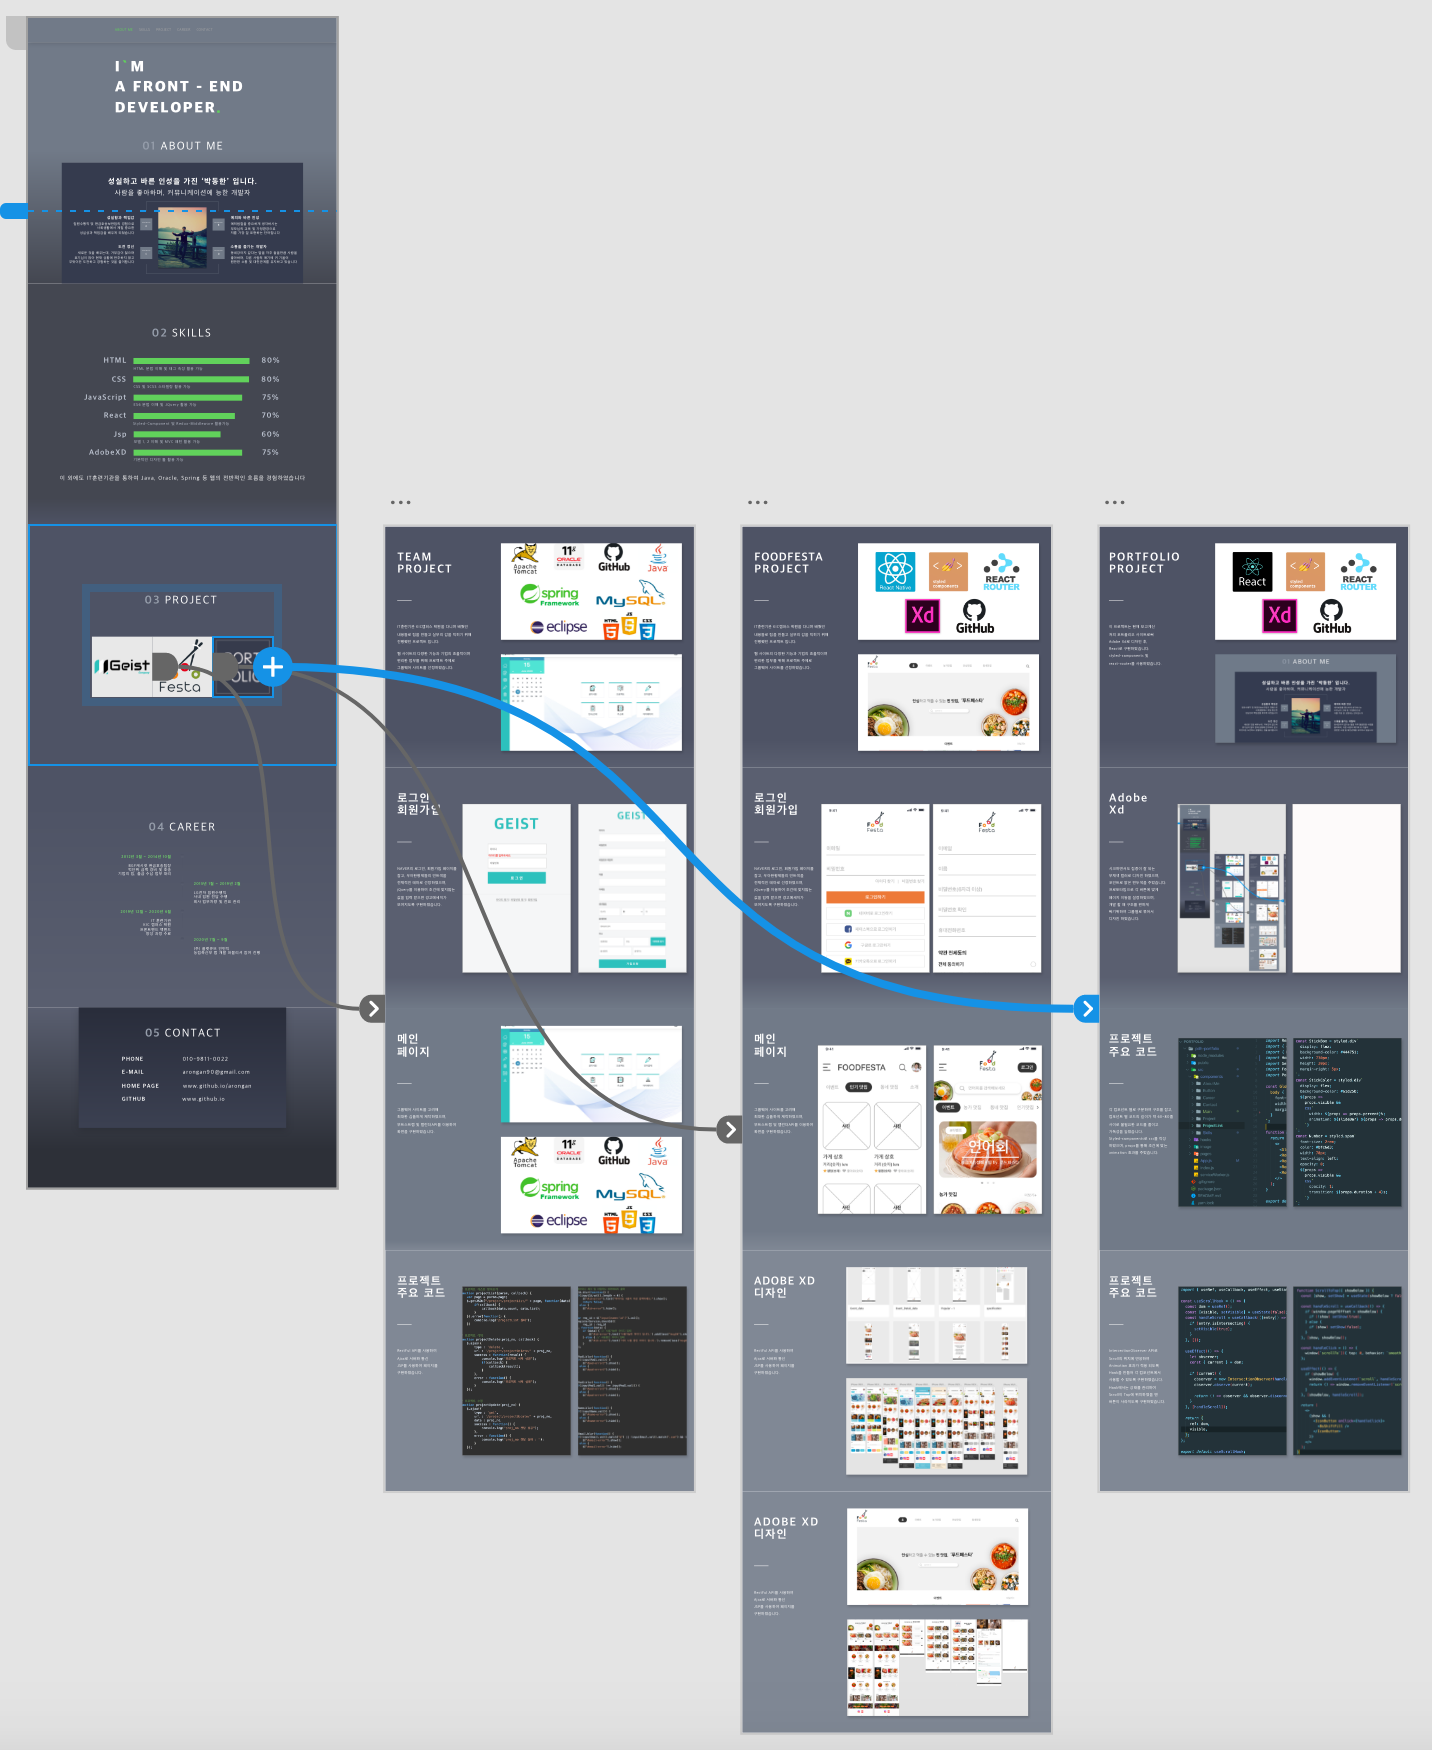
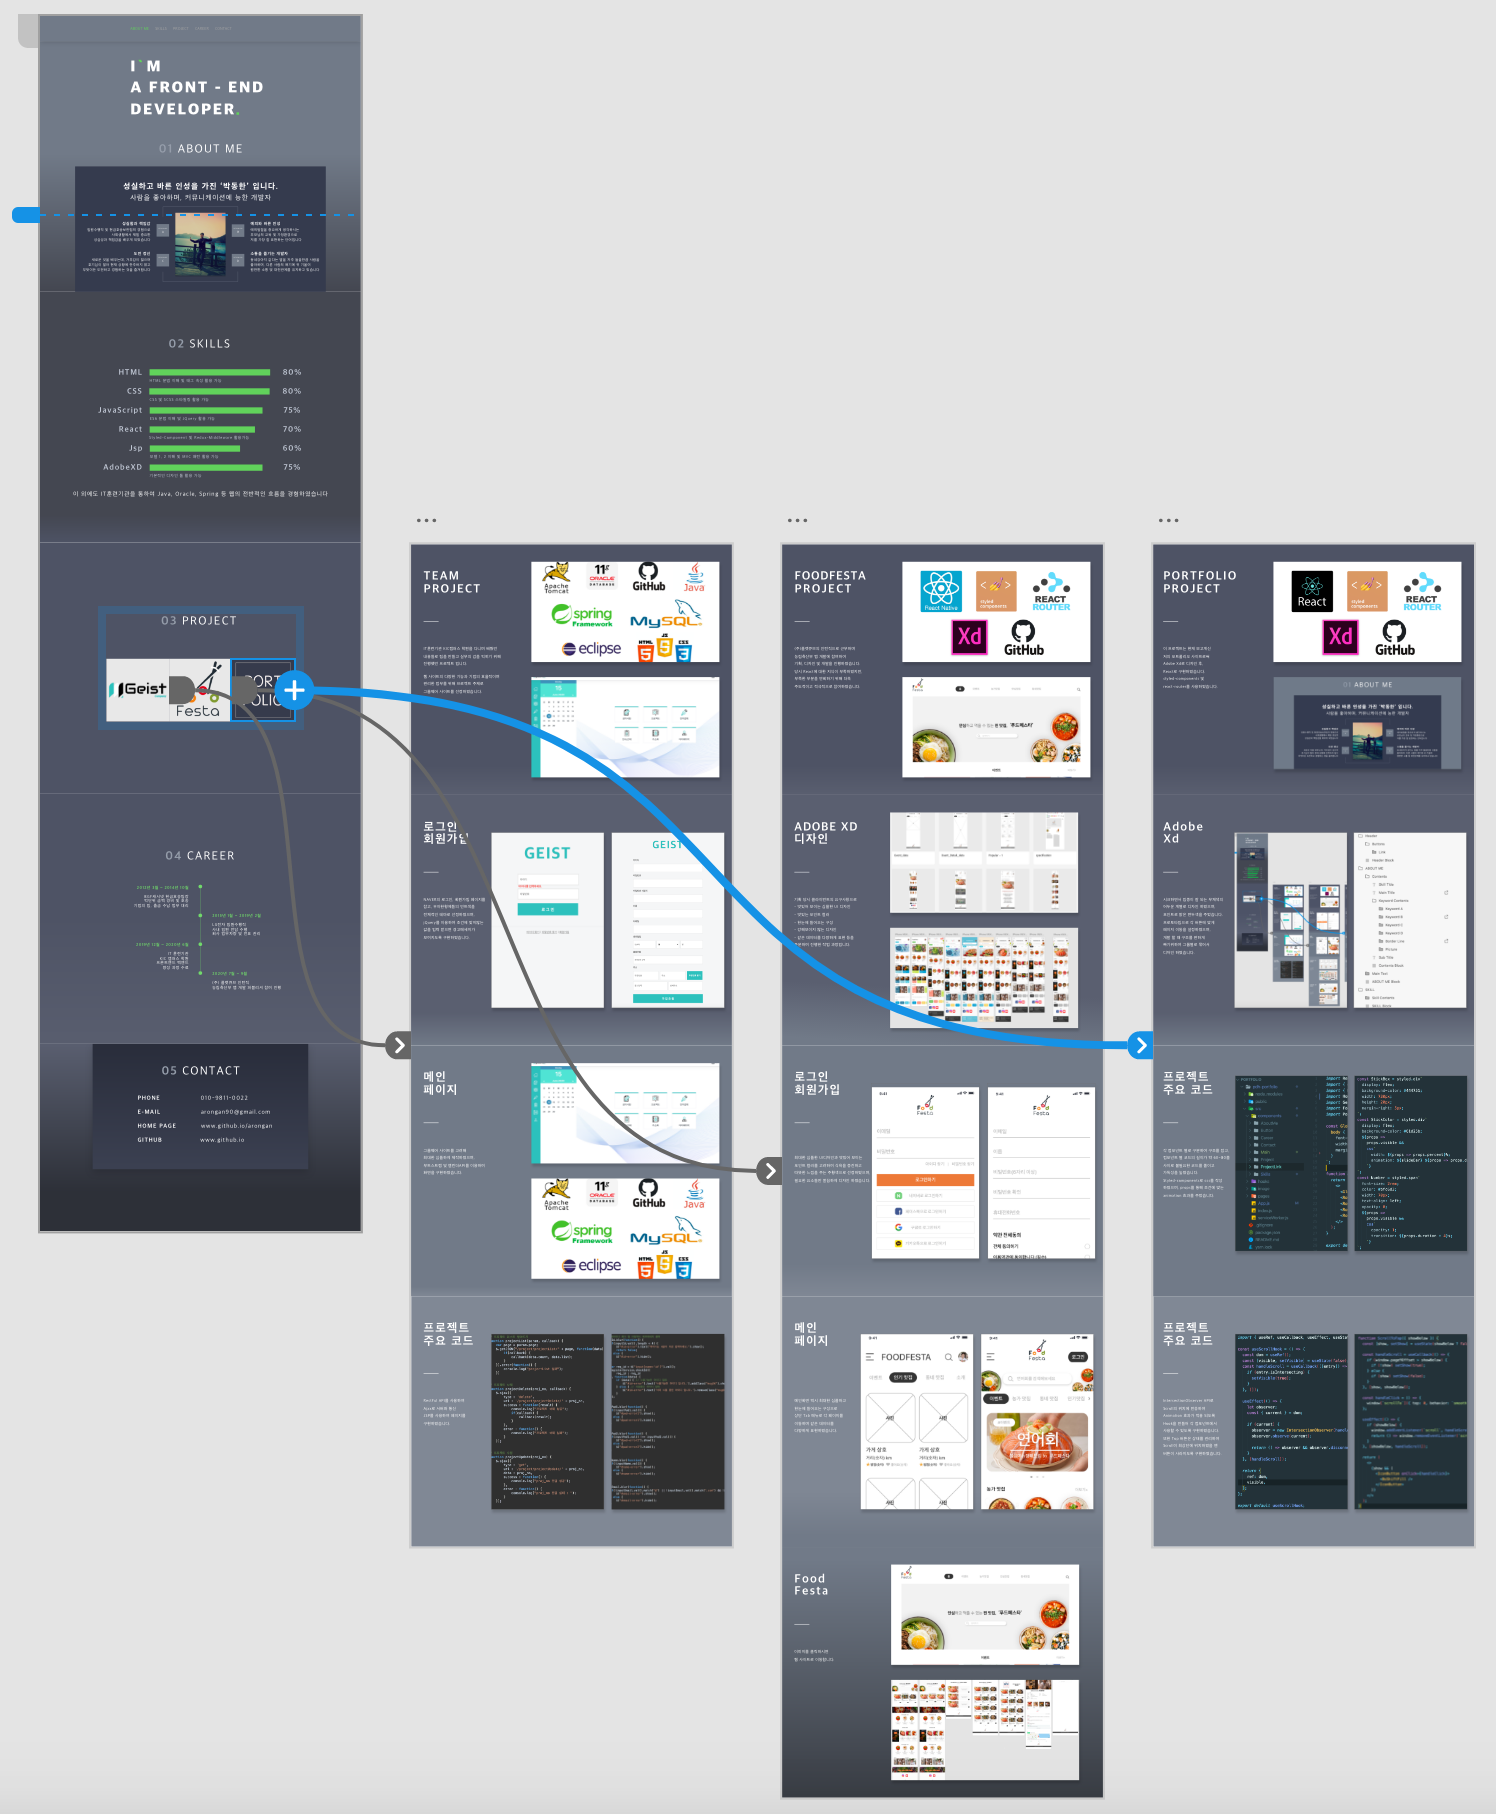
portfolio image 및 about me title 수정

Changed region(s): [[0.0, 0.0, 1.0, 1.0], [0.0922, 0.4629, 0.1536, 0.5554], [0.0922, 0.5863, 0.1536, 0.6171]]

diff --git a/pdh-portfolio/src/components/AboutMe/AboutMeContents.js b/pdh-portfolio/src/components/AboutMe/AboutMeContents.js
@@ -3,12 +3,6 @@ import styled from 'styled-components';
 import Keyword from './Keyword';
 import Donghan from '../../image/donghan.jpeg';
 
-const Image = styled.img`
-  width: 200px;
-  height: 250px;
-  margin: 25px 25px;
-`;
-
 const AboutMeContentsText = styled.div`
   color: lightgray;
   text-align: center;
@@ -16,12 +10,12 @@ const AboutMeContentsText = styled.div`
     font-size: 32px;
     font-weight: 600;
     margin-top: 60px;
-    margin-bottom: 8px;
-    letter-spacing: 5px;
+    margin-bottom: 20px;
+    letter-spacing: 3px;
     color: white;
   }
   h5 {
-    font-size: 28px;
+    font-size: 24px;
     font-weight: 400;
     margin: 0;
   }
@@ -31,26 +25,32 @@ const OutLine = styled.div`
   width: 300px;
   height: 300px;
   border: 1px solid #717a88;
-  margin: 20px 350px 40px;
+  margin: 20px 350px 20px;
   position: relative;
+`;
+
+const Image = styled.img`
+  width: 200px;
+  height: 250px;
+  margin: 25px 25px;
 `;
 
 function AboutMeContents() {
   return (
     <>
       <AboutMeContentsText>
-        <h2>성실하고 바른 인성을 가진 '박동한' 입니다.</h2>
-        <h5>사람을 좋아하고, 커뮤니케이션에 능한 개발자</h5>
+        <h2>사람을 좋아하며, 커뮤니케이션을 즐기는 개발자</h2>
+        <h5>'박동한' 에 대한 4가지 Key word</h5>
         <OutLine>
           <Image src={Donghan} />
           <Keyword icon="Keyword A" position="A" align="right">
-            <b>성실함과 책임감</b>
+            <b>성실과 책임감</b>
             <br />
-            임원 수행직과 현금 보안호송직의
+            임원 수행직 및 현금 보안호송직의 경험을
             <br />
-            경험으로 사회생활에서 제일 중요한
+            바탕으로 사회생활에서 제일 중요한
             <br />
-            성실성과 책임감을 배우게 되었습니다
+            성실함과 책임감을 익히게 되었습니다
           </Keyword>
           <Keyword icon="Keyword B" position="B" align="left">
             <b>예의와 바른 인성</b>
@@ -64,20 +64,20 @@ function AboutMeContents() {
           <Keyword icon="Keyword C" position="C" align="right">
             <b>도전 정신</b>
             <br />
-            새로운 것을 배우는데, 거부감이 없으며
+            새로운 것을 익히는데 거부감이 없으며
             <br />
-            호기심이 많아 현재 상황에 안주하지 않고
+            호기심이 많아 현재 상황에 머무르지 않고
             <br />
-            무엇이든 도전하고 경험하는 것을 즐겨합니다
+            무엇이든 경험 해보는 것을 즐겨합니다
           </Keyword>
           <Keyword icon="Keyword D" position="D" align="left">
-            <b>소통을 즐기는 개발자</b>
+            <b>넘치는 인간미</b>
             <br />
             동네강아지 같다는 말을 자주 들을만큼 사람을
             <br />
             좋아하며, 다른 사람의 얘기에 귀 기울여
             <br />
-            원만한 소통 및 대인관계를 유지하고 있습니다
+            원만한 소통과 대인관계를 유지합니다
           </Keyword>
         </OutLine>
       </AboutMeContentsText>

diff --git a/pdh-portfolio/src/components/ProjectLink/FoodFestaProject/FoodFestaPage5.js b/pdh-portfolio/src/components/ProjectLink/FoodFestaProject/FoodFestaPage5.js
@@ -1,8 +1,7 @@
 import React from 'react';
 import styled from 'styled-components';
 import Explanation from './Explanation';
-import restful from '../../../image/restful.png';
-import jquery from '../../../image/jquery.png';
+import food_web from '../../../image/food_web.png';
 
 const FoodFestaBlock = styled.div`
   width: 100%;
@@ -18,27 +17,34 @@ const ImageBlock = styled.div`
   justify-content: center;
 `;
 const Image = styled.img`
-  width: 450px;
-  height: 700px;
-  margin-right: 50px;
+  width: 850px;
+  height: 550px;
   box-shadow: 10px 10px 10px 0 rgba(0, 0, 0, 0.3);
+  transition: 0.7s;
+  &:hover {
+    transform: scale(1.1);
+  }
 `;
 
 function FoodFestaPage5() {
   return (
     <FoodFestaBlock>
       <Explanation
-        title="주요 코드"
+        title="푸드페스타/n홈페이지"
         explain="
-          RestFul API를 사용하여
-          Ajax로 서버와 통신
-          JSP를 사용하여 페이지를
-          구현하였습니다.
+          이미지를 클릭하시면/n
+          food-festa 웹 사이트로/n
+          이동합니다.
         "
       />
       <ImageBlock>
-        <Image src={restful}></Image>
-        <Image src={jquery}></Image>
+        <a
+          href="http://www.food-festa.com"
+          target="_blank"
+          rel="noopener noreferrer"
+        >
+          <Image src={food_web}></Image>
+        </a>
       </ImageBlock>
     </FoodFestaBlock>
   );

diff --git a/pdh-portfolio/src/components/ProjectLink/FoodFestaProject/FoodFestaPage1.js b/pdh-portfolio/src/components/ProjectLink/FoodFestaProject/FoodFestaPage1.js
@@ -7,7 +7,7 @@ import food_web from '../../../image/food_web.png';
 const FoodFestaBlock = styled.div`
   width: 100%;
   height: 1000px;
-  background: linear-gradient(to bottom, #717a88, 95%, #5a5f70);
+  background: linear-gradient(to bottom, #4e5365, 95%, #5a5f70);
   display: flex;
   align-items: center;
   justify-content: space-around;
@@ -20,7 +20,7 @@ const ImageBlock = styled.div`
   flex-direction: column;
 `;
 const Image = styled.img`
-  width: 750px;
+  width: 700px;
   height: 400px;
   box-shadow: 10px 10px 10px 0 rgba(0, 0, 0, 0.3);
   transition: 0.7s;
@@ -41,7 +41,7 @@ function FoodFestaPage1() {
           (주)플랫큐브의 인턴직으로 근무하며/n
           농림축산부 앱 개발에 참여하여/n
           기획, 디자인 및 개발을 진행하였습니다./n
-          당시 React에 대한 지식이 부족하였지만,/n
+          당시 React에 이해와 지식이 조금 부족하였지만,/n
           부족한 부분을 만회하기 위해 더욱/n
           주도적이며 적극적으로 참여하였습니다.        
         "

diff --git a/pdh-portfolio/src/components/ProjectLink/PortFolioProject/PortFolioPage1.js b/pdh-portfolio/src/components/ProjectLink/PortFolioProject/PortFolioPage1.js
@@ -2,11 +2,12 @@ import React from 'react';
 import styled from 'styled-components';
 import Explanation from './Explanation';
 import portfolio_main from '../../../image/portfolio_main.png';
+import portfolio_skill from '../../../image/portfolio_skill.png';
 
 const PortFolioBlock = styled.div`
   width: 100%;
   height: 1000px;
-  background: linear-gradient(to bottom, #717a88, 95%, #5a5f70);
+  background: linear-gradient(to bottom, #4e5365, 95%, #5a5f70);
   display: flex;
   align-items: center;
   justify-content: space-around;
@@ -19,7 +20,7 @@ const ImageBlock = styled.div`
   flex-direction: column;
 `;
 const Image = styled.img`
-  width: 750px;
+  width: 700px;
   height: 400px;
   box-shadow: 10px 10px 10px 0 rgba(0, 0, 0, 0.3);
   transition: 0.7s;
@@ -45,7 +46,7 @@ function PortFolioPage1() {
           "
       />
       <ImageBlock>
-        <Image src={portfolio_main}></Image>
+        <Image src={portfolio_skill}></Image>
         <Image src={portfolio_main}></Image>
       </ImageBlock>
     </PortFolioBlock>

diff --git a/pdh-portfolio/src/components/ProjectLink/FoodFestaProject/Explanation.js b/pdh-portfolio/src/components/ProjectLink/FoodFestaProject/Explanation.js
@@ -27,23 +27,23 @@ function Explanation({ title, explain }) {
     <>
       <ExplanBlock>
         <h1>
-          {title.split('/n').map(line => {
+          {title.split('/n').map((line, index) => {
             return (
-              <>
+              <div key={index}>
                 {line}
                 <br />
-              </>
+              </div>
             );
           })}
         </h1>
         <Line />
         <Text>
-          {explain.split('/n').map(line => {
+          {explain.split('/n').map((line, index) => {
             return (
-              <>
+              <div key={index}>
                 {line}
                 <br />
-              </>
+              </div>
             );
           })}
         </Text>

diff --git a/pdh-portfolio/src/components/ProjectLink/PortFolioProject/PortFolio.js b/pdh-portfolio/src/components/ProjectLink/PortFolioProject/PortFolio.js
@@ -4,7 +4,6 @@ import PortFolioPage1 from './PortFolioPage1';
 import PortFolioPage2 from './PortFolioPage2';
 import PortFolioPage3 from './PortFolioPage3';
 import PortFolioPage4 from './PortFolioPage4';
-import PortFolioPage5 from './PortFolioPage5';
 import HomeButton from '../../Button/HomeButton';
 import ScrollToTop from '../../Button/ScrollToTop';
 
@@ -28,7 +27,6 @@ function PortFolio() {
       <PortFolioPage2 />
       <PortFolioPage3 />
       <PortFolioPage4 />
-      <PortFolioPage5 />
       <ButtonGroup>
         <HomeButton />
         <ScrollToTop />

diff --git a/pdh-portfolio/src/components/ProjectLink/GeistProject/GeistPage1.js b/pdh-portfolio/src/components/ProjectLink/GeistProject/GeistPage1.js
@@ -7,7 +7,7 @@ import product from '../../../image/product.png';
 const WorkBlock = styled.div`
   width: 100%;
   height: 1000px;
-  background: linear-gradient(to bottom, #717a88, 95%, #5a5f70);
+  background: linear-gradient(to bottom, #4e5365, 95%, #5a5f70);
   display: flex;
   align-items: center;
   justify-content: space-around;
@@ -22,7 +22,7 @@ const ImageBlock = styled.div`
 `;
 
 const Image = styled.img`
-  width: 750px;
+  width: 700px;
   height: 400px;
   box-shadow: 10px 10px 10px 0 rgba(0, 0, 0, 0.3);
   transition: 0.7s;

diff --git a/pdh-portfolio/src/components/ProjectLink/FoodFestaProject/FoodFestaPage3.js b/pdh-portfolio/src/components/ProjectLink/FoodFestaProject/FoodFestaPage3.js
@@ -18,13 +18,13 @@ const ImageBlock = styled.div`
   justify-content: center;
 `;
 const Image = styled.img`
-  width: 400px;
+  width: 365px;
   height: 700px;
   margin-right: 50px;
   box-shadow: 10px 10px 10px 0 rgba(0, 0, 0, 0.3);
   transition: 0.7s;
   &:hover {
-    transform: scale(1.15);
+    transform: scale(1.1);
   }
 `;
 

diff --git a/pdh-portfolio/src/components/ProjectLink/FoodFestaProject/FoodFestaPage4.js b/pdh-portfolio/src/components/ProjectLink/FoodFestaProject/FoodFestaPage4.js
@@ -18,13 +18,13 @@ const ImageBlock = styled.div`
   justify-content: center;
 `;
 const Image = styled.img`
-  width: 400px;
+  width: 350px;
   height: 700px;
   margin-right: 50px;
   box-shadow: 10px 10px 10px 0 rgba(0, 0, 0, 0.3);
   transition: 0.7s;
   &:hover {
-    transform: scale(1.15);
+    transform: scale(1.1);
   }
 `;
 

diff --git a/pdh-portfolio/src/components/ProjectLink/GeistProject/GeistPage5.js b/pdh-portfolio/src/components/ProjectLink/GeistProject/GeistPage5.js
@@ -7,7 +7,8 @@ import jquery from '../../../image/jquery.png';
 const WorkBlock = styled.div`
   width: 100%;
   height: 1000px;
-  background: #808895;
+  background: linear-gradient(to bottom, #717a88, 95%, #808895);
+  background: #717a88;
   display: flex;
   align-items: center;
   justify-content: space-around;

diff --git a/pdh-portfolio/src/components/ProjectLink/GeistProject/GeistPage3.js b/pdh-portfolio/src/components/ProjectLink/GeistProject/GeistPage3.js
@@ -32,7 +32,7 @@ function WorkPage3() {
   return (
     <WorkBlock>
       <Explanation
-        title="메인 페이지"
+        title="메인/n페이지"
         explain="
         그룹웨어 사이트를 고려해 메인화면을/n
         최대한 심플하고 한눈에 들어오게 구현하였으며,/n

diff --git a/pdh-portfolio/src/App.js b/pdh-portfolio/src/App.js
@@ -8,7 +8,7 @@ import PortFolio from './components/ProjectLink/PortFolioProject/PortFolio';
 
 const GlobalStyle = createGlobalStyle`
   body {
-    font-family: nanum-gothic;
+    font-family: sans-serif;
     width: 100%;
     margin: 0;
   }
